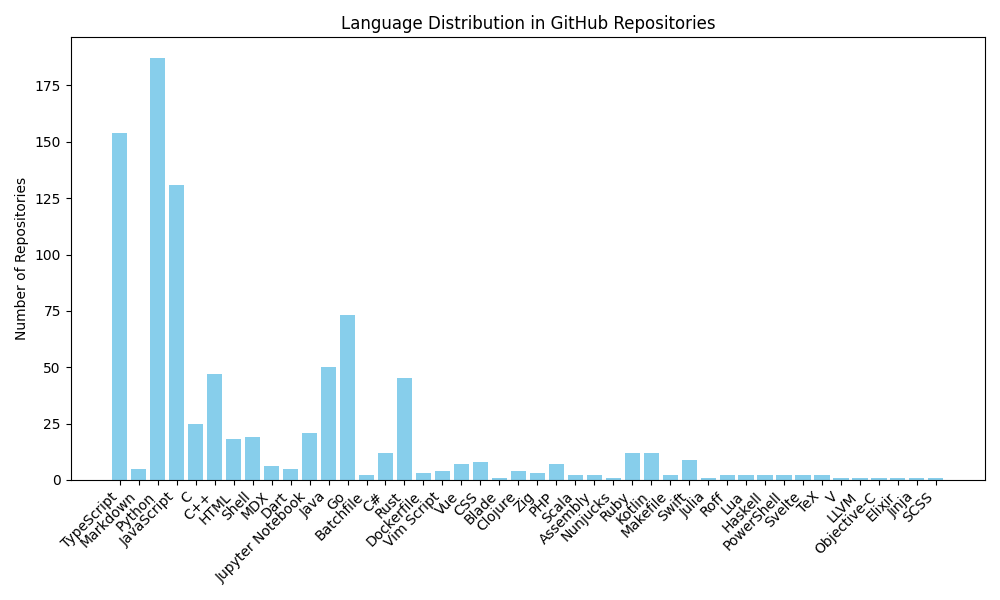
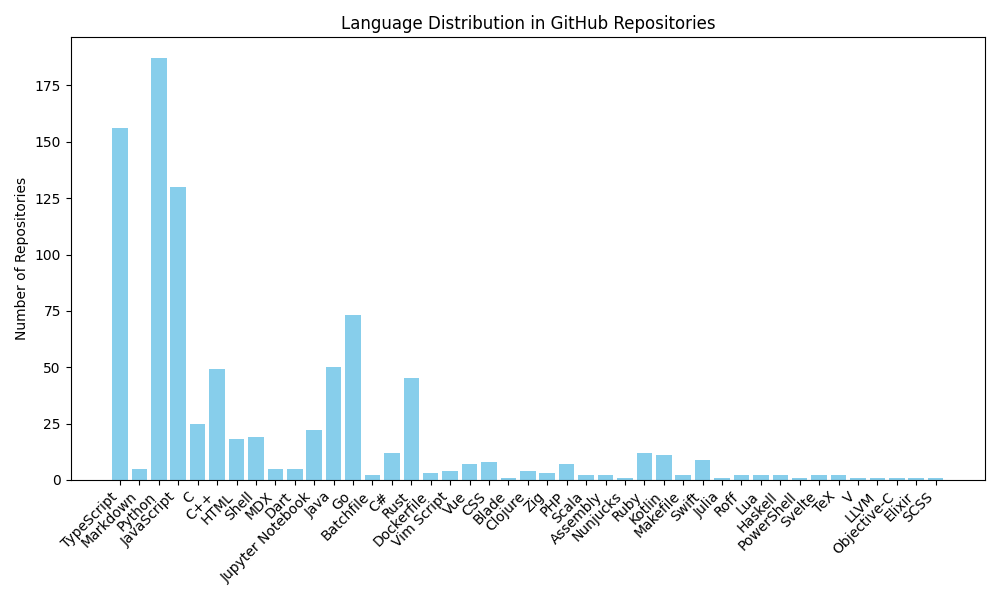
Update language distribution chart

Changed region(s): [[0.093, 0.3, 0.93, 0.99], [0.093, 0.21, 0.124, 0.24]]

diff --git a/README.md b/README.md
@@ -5,7 +5,7 @@
 Total repositories processed: 896
 
 Language distribution:
-TypeScript: 154, Markdown: 5, Python: 187, JavaScript: 131, C: 25, C++: 47, HTML: 18, Shell: 19, MDX: 6, Dart: 5, Jupyter Notebook: 21, Java: 50, Go: 73, Batchfile: 2, C#: 12, Rust: 45, Dockerfile: 3, Vim Script: 4, Vue: 7, CSS: 8, Blade: 1, Clojure: 4, Zig: 3, PHP: 7, Scala: 2, Assembly: 2, Nunjucks: 1, Ruby: 12, Kotlin: 12, Makefile: 2, Swift: 9, Julia: 1, Roff: 2, Lua: 2, Haskell: 2, PowerShell: 2, Svelte: 2, TeX: 2, V: 1, LLVM: 1, Objective-C: 1, Elixir: 1, Jinja: 1, SCSS: 1
+TypeScript: 156, Markdown: 5, Python: 187, JavaScript: 130, C: 25, C++: 49, HTML: 18, Shell: 19, MDX: 5, Dart: 5, Jupyter Notebook: 22, Java: 50, Go: 73, Batchfile: 2, C#: 12, Rust: 45, Dockerfile: 3, Vim Script: 4, Vue: 7, CSS: 8, Blade: 1, Clojure: 4, Zig: 3, PHP: 7, Scala: 2, Assembly: 2, Nunjucks: 1, Ruby: 12, Kotlin: 11, Makefile: 2, Swift: 9, Julia: 1, Roff: 2, Lua: 2, Haskell: 2, PowerShell: 1, Svelte: 2, TeX: 2, V: 1, LLVM: 1, Objective-C: 1, Elixir: 1, SCSS: 1
 
 
-_Last updated: 2025-08-03 01:27:17_
+_Last updated: 2025-08-10 01:25:02_
